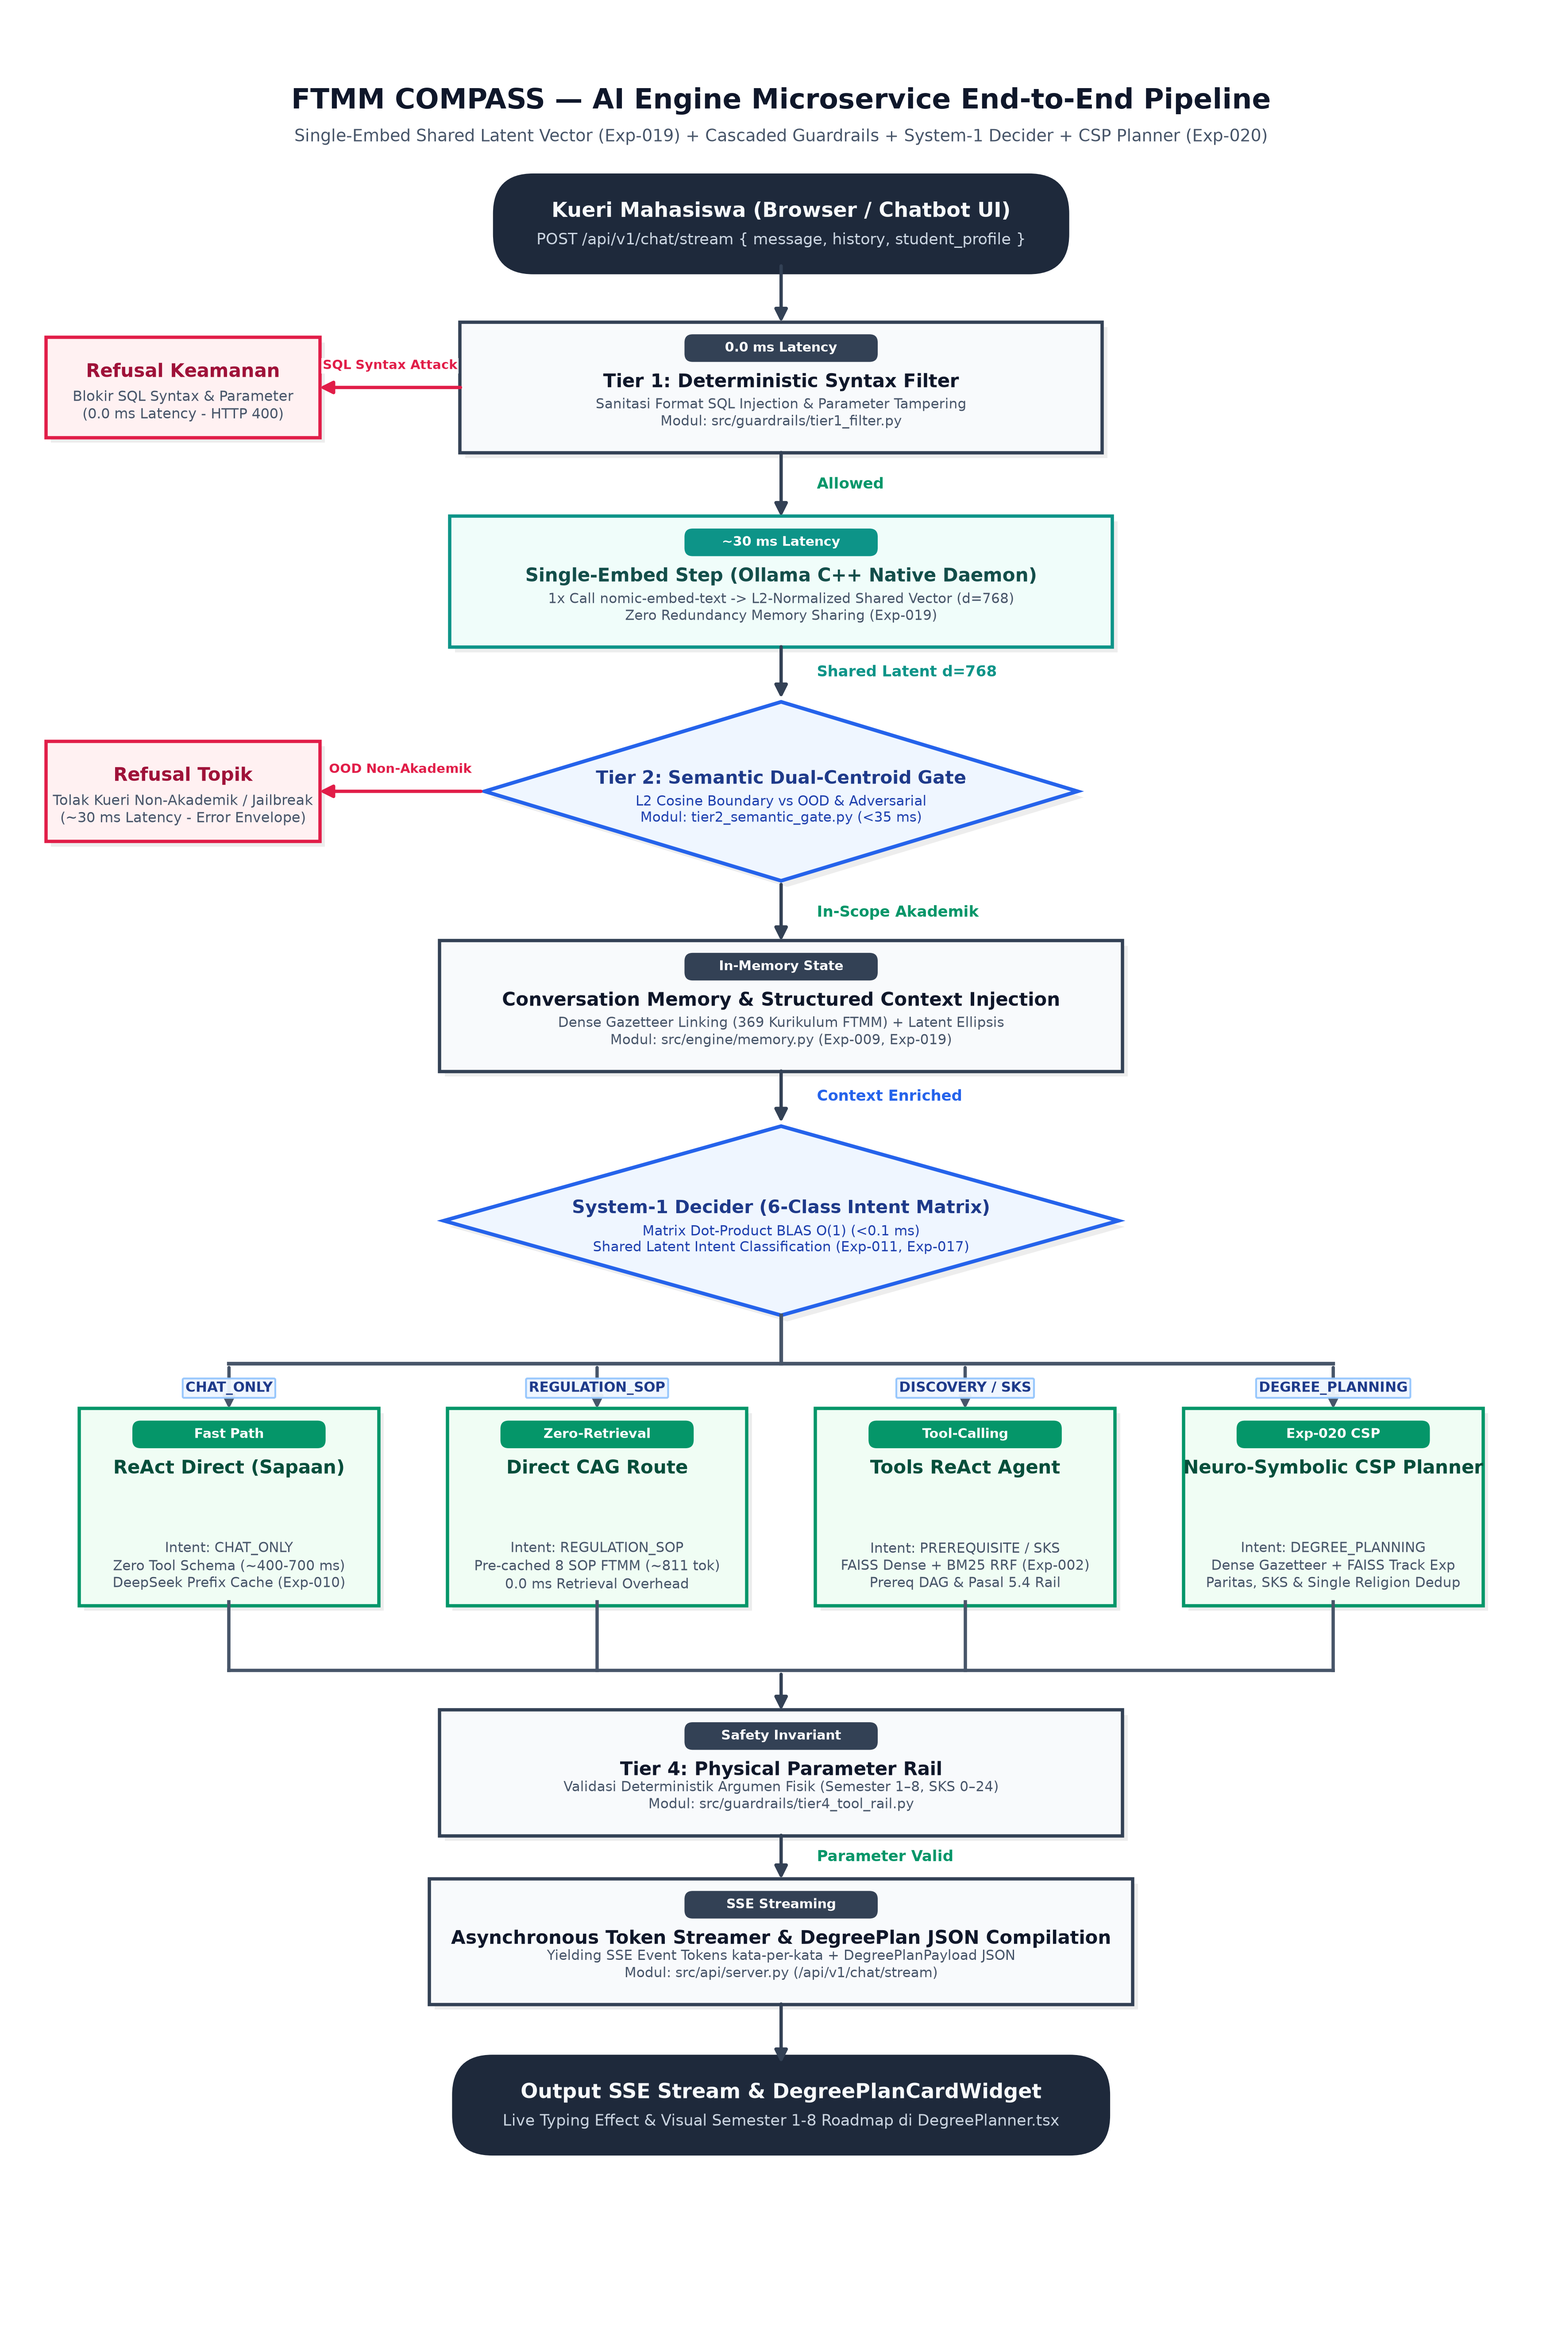
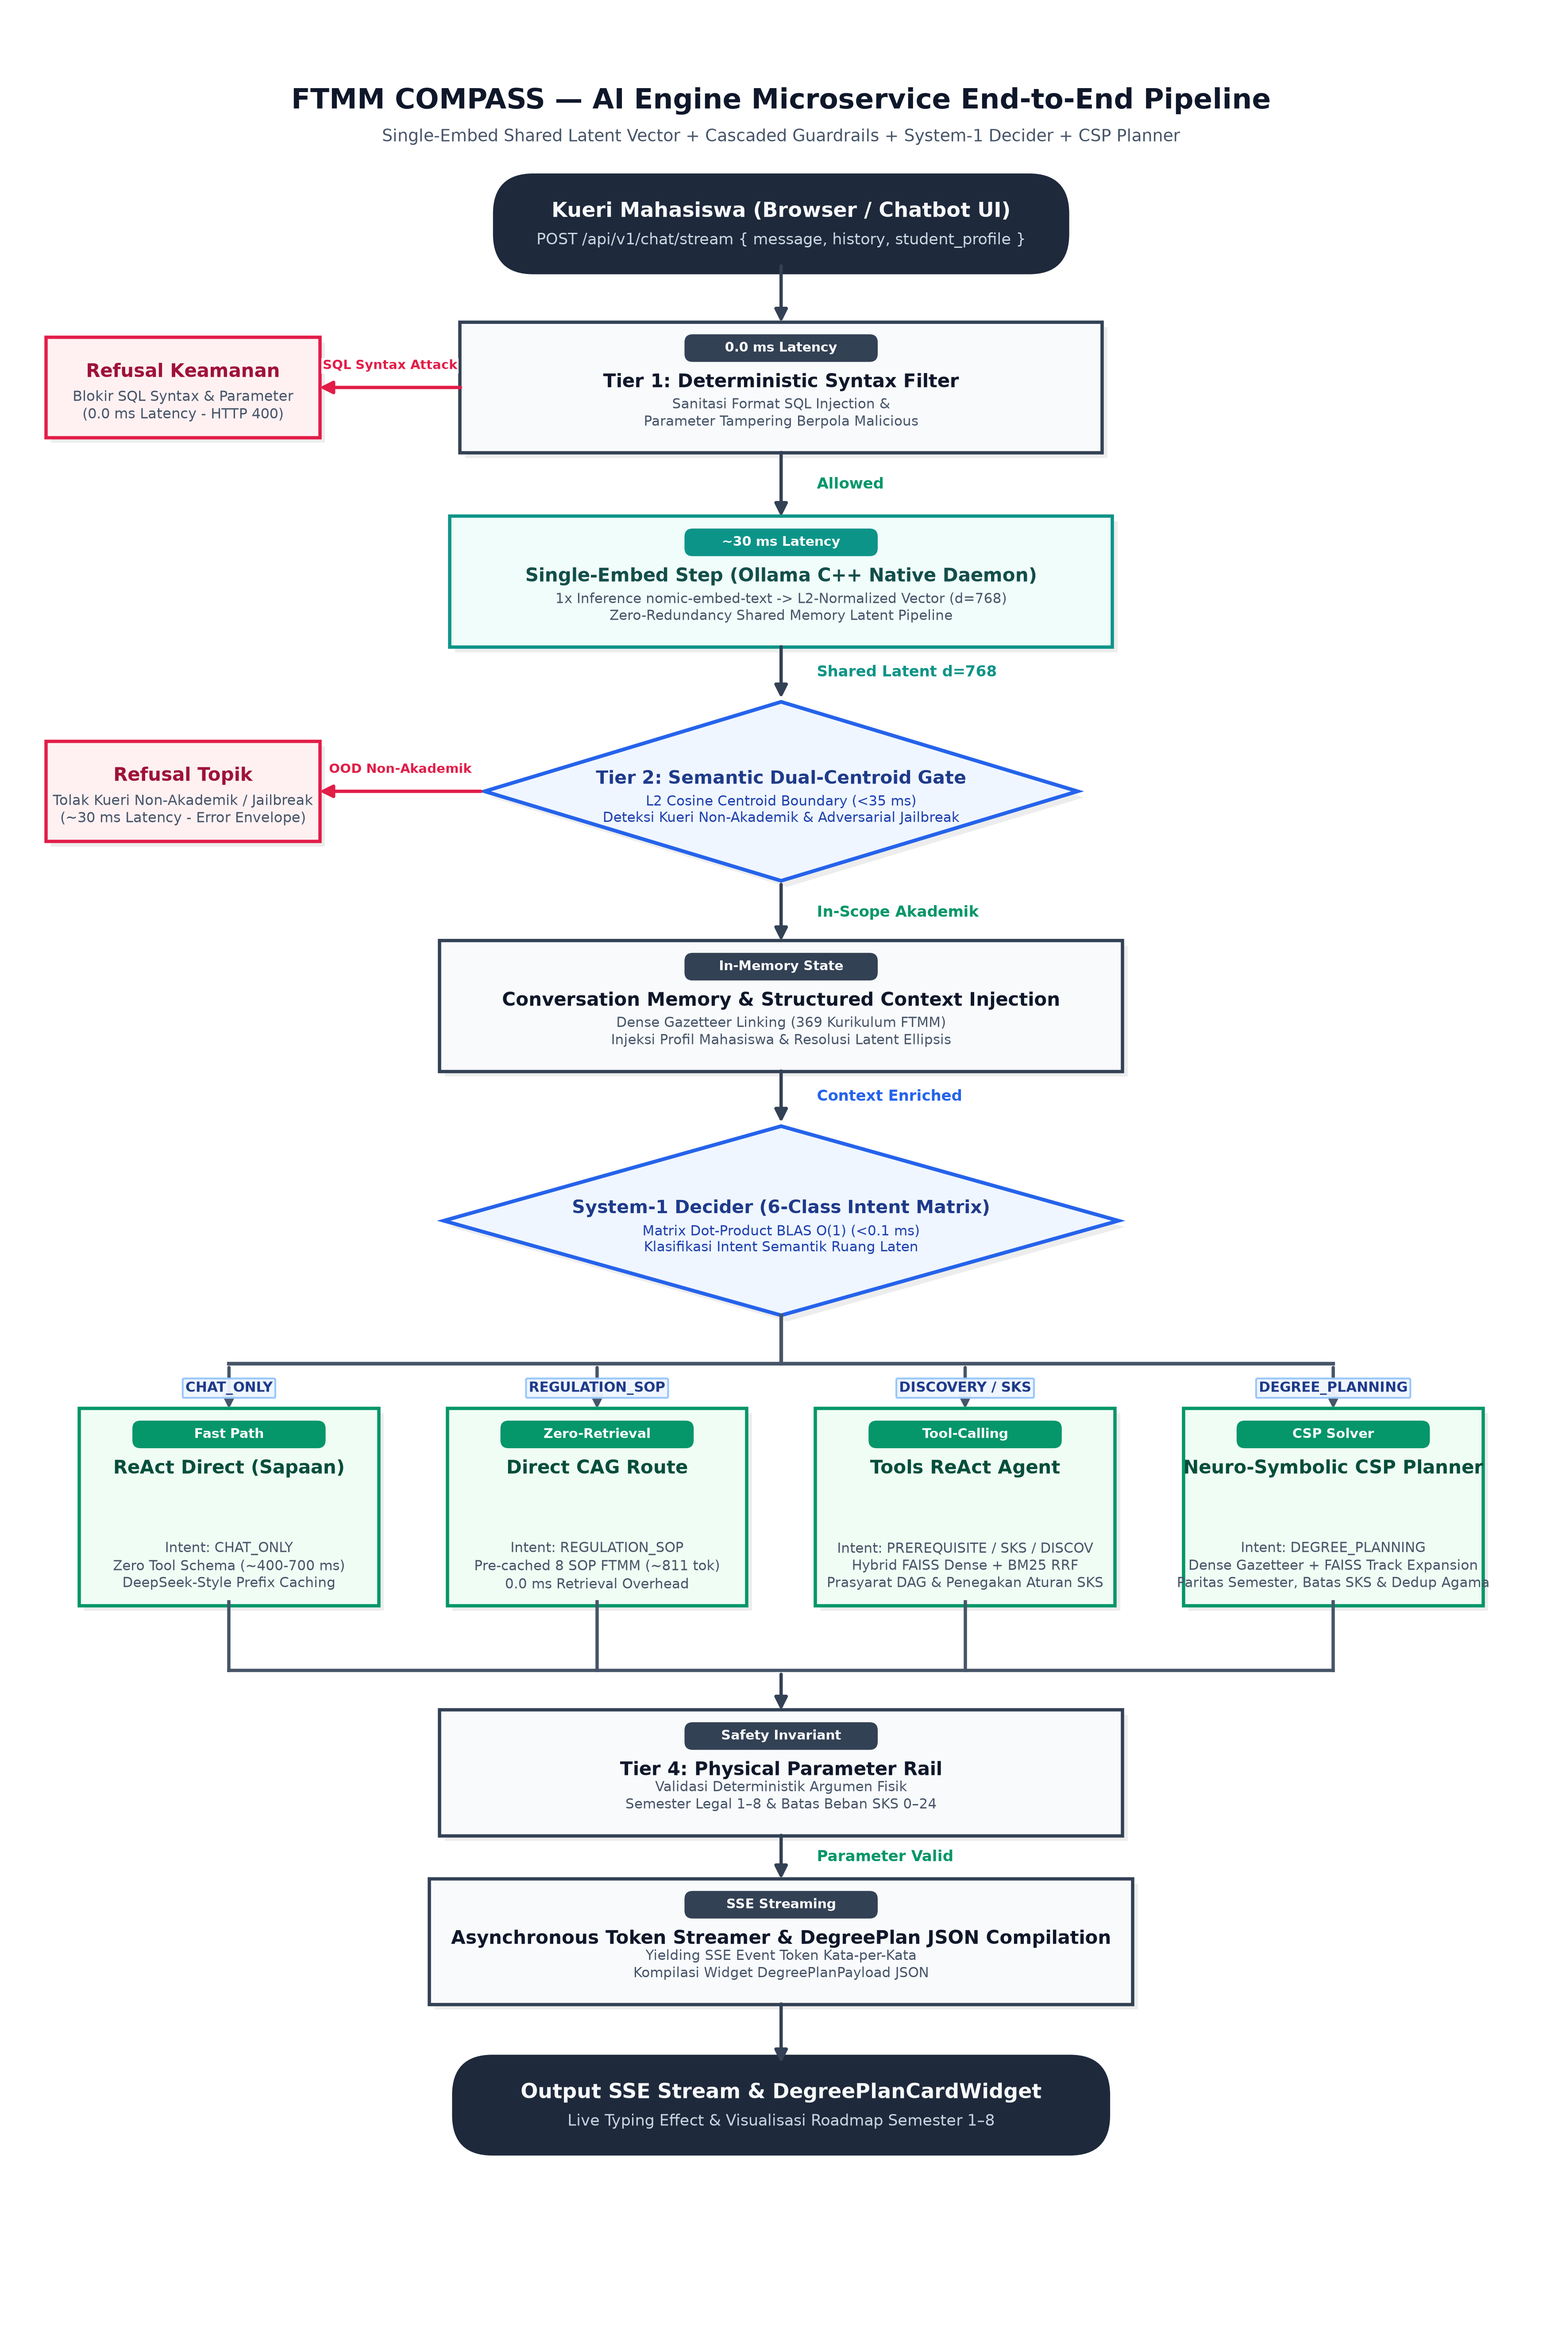
refactor(flowchart): remove file paths and experiment IDs from visual pipeline flowchart

diff --git a/scripts/generate_architecture_flowchart.py b/scripts/generate_architecture_flowchart.py
@@ -358,7 +358,7 @@ def build_ftmm_compass_flowchart():
     builder = FlowchartBuilder(width=14.5, height=22.0, dpi=300)
     builder.render_header(
         "FTMM COMPASS — AI Engine Microservice End-to-End Pipeline",
-        "Single-Embed Shared Latent Vector (Exp-019) + Cascaded Guardrails + System-1 Decider + CSP Planner (Exp-020)"
+        "Single-Embed Shared Latent Vector + Cascaded Guardrails + System-1 Decider + CSP Planner"
     )
 
     # 1. Start Node
@@ -372,7 +372,7 @@ def build_ftmm_compass_flowchart():
     builder.add_process(
         node_id="tier1", cx=7.25, cy=18.6, w=6.2, h=1.2,
         title="Tier 1: Deterministic Syntax Filter",
-        subtitle="Sanitasi Format SQL Injection & Parameter Tampering\nModul: src/guardrails/tier1_filter.py",
+        subtitle="Sanitasi Format SQL Injection &\nParameter Tampering Berpola Malicious",
         badge="0.0 ms Latency"
     )
 
@@ -388,7 +388,7 @@ def build_ftmm_compass_flowchart():
     builder.add_process(
         node_id="embed", cx=7.25, cy=16.7, w=6.4, h=1.2,
         title="Single-Embed Step (Ollama C++ Native Daemon)",
-        subtitle="1x Call nomic-embed-text -> L2-Normalized Shared Vector (d=768)\nZero Redundancy Memory Sharing (Exp-019)",
+        subtitle="1x Inference nomic-embed-text -> L2-Normalized Vector (d=768)\nZero-Redundancy Shared Memory Latent Pipeline",
         theme="embed", badge="~30 ms Latency"
     )
 
@@ -396,7 +396,7 @@ def build_ftmm_compass_flowchart():
     builder.add_decision(
         node_id="tier2", cx=7.25, cy=14.65, w=5.8, h=1.75,
         title="Tier 2: Semantic Dual-Centroid Gate",
-        subtitle="L2 Cosine Boundary vs OOD & Adversarial\nModul: tier2_semantic_gate.py (<35 ms)"
+        subtitle="L2 Cosine Centroid Boundary (<35 ms)\nDeteksi Kueri Non-Akademik & Adversarial Jailbreak"
     )
 
     # 6. Tier 2 Refusal Node
@@ -411,7 +411,7 @@ def build_ftmm_compass_flowchart():
     builder.add_process(
         node_id="memory", cx=7.25, cy=12.55, w=6.6, h=1.2,
         title="Conversation Memory & Structured Context Injection",
-        subtitle="Dense Gazetteer Linking (369 Kurikulum FTMM) + Latent Ellipsis\nModul: src/engine/memory.py (Exp-009, Exp-019)",
+        subtitle="Dense Gazetteer Linking (369 Kurikulum FTMM)\nInjeksi Profil Mahasiswa & Resolusi Latent Ellipsis",
         badge="In-Memory State"
     )
 
@@ -419,7 +419,7 @@ def build_ftmm_compass_flowchart():
     builder.add_decision(
         node_id="decider", cx=7.25, cy=10.45, w=6.6, h=1.85,
         title="System-1 Decider (6-Class Intent Matrix)",
-        subtitle="Matrix Dot-Product BLAS O(1) (<0.1 ms)\nShared Latent Intent Classification (Exp-011, Exp-017)"
+        subtitle="Matrix Dot-Product BLAS O(1) (<0.1 ms)\nKlasifikasi Intent Semantik Ruang Laten"
     )
 
     # 9. Execution Subsystems (4 Parallel Blocks)
@@ -430,10 +430,9 @@ def build_ftmm_compass_flowchart():
     builder.add_process(
         node_id="exec_chat", cx=1.85, cy=exec_y, w=exec_w, h=exec_h,
         title="ReAct Direct (Sapaan)",
-        subtitle="Intent: CHAT_ONLY\nZero Tool Schema (~400-700 ms)\nDeepSeek Prefix Cache (Exp-010)",
+        subtitle="Intent: CHAT_ONLY\nZero Tool Schema (~400-700 ms)\nDeepSeek-Style Prefix Caching",
         theme="route", badge="Fast Path"
     )
-
     builder.add_process(
         node_id="exec_cag", cx=5.45, cy=exec_y, w=exec_w, h=exec_h,
         title="Direct CAG Route",
@@ -444,22 +443,22 @@ def build_ftmm_compass_flowchart():
     builder.add_process(
         node_id="exec_tools", cx=9.05, cy=exec_y, w=exec_w, h=exec_h,
         title="Tools ReAct Agent",
-        subtitle="Intent: PREREQUISITE / SKS\nFAISS Dense + BM25 RRF (Exp-002)\nPrereq DAG & Pasal 5.4 Rail",
+        subtitle="Intent: PREREQUISITE / SKS / DISCOV\nHybrid FAISS Dense + BM25 RRF\nPrasyarat DAG & Penegakan Aturan SKS",
         theme="route", badge="Tool-Calling"
     )
 
     builder.add_process(
         node_id="exec_csp", cx=12.65, cy=exec_y, w=exec_w, h=exec_h,
         title="Neuro-Symbolic CSP Planner",
-        subtitle="Intent: DEGREE_PLANNING\nDense Gazetteer + FAISS Track Exp\nParitas, SKS & Single Religion Dedup",
-        theme="route", badge="Exp-020 CSP"
+        subtitle="Intent: DEGREE_PLANNING\nDense Gazetteer + FAISS Track Expansion\nParitas Semester, Batas SKS & Dedup Agama",
+        theme="route", badge="CSP Solver"
     )
 
     # 10. Tier 4 Process: Physical Parameter Rail
     builder.add_process(
         node_id="tier4", cx=7.25, cy=5.05, w=6.6, h=1.15,
         title="Tier 4: Physical Parameter Rail",
-        subtitle="Validasi Deterministik Argumen Fisik (Semester 1–8, SKS 0–24)\nModul: src/guardrails/tier4_tool_rail.py",
+        subtitle="Validasi Deterministik Argumen Fisik\nSemester Legal 1–8 & Batas Beban SKS 0–24",
         badge="Safety Invariant"
     )
 
@@ -467,7 +466,7 @@ def build_ftmm_compass_flowchart():
     builder.add_process(
         node_id="stream", cx=7.25, cy=3.40, w=6.8, h=1.15,
         title="Asynchronous Token Streamer & DegreePlan JSON Compilation",
-        subtitle="Yielding SSE Event Tokens kata-per-kata + DegreePlanPayload JSON\nModul: src/api/server.py (/api/v1/chat/stream)",
+        subtitle="Yielding SSE Event Token Kata-per-Kata\nKompilasi Widget DegreePlanPayload JSON",
         badge="SSE Streaming"
     )
 
@@ -475,7 +474,7 @@ def build_ftmm_compass_flowchart():
     builder.add_terminal(
         node_id="end", cx=7.25, cy=1.80, w=6.2, h=0.75,
         title="Output SSE Stream & DegreePlanCardWidget",
-        subtitle="Live Typing Effect & Visual Semester 1-8 Roadmap di DegreePlanner.tsx"
+        subtitle="Live Typing Effect & Visualisasi Roadmap Semester 1–8"
     )
 
     # CONNECTIONS & ROUTING
